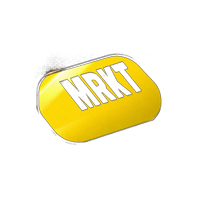
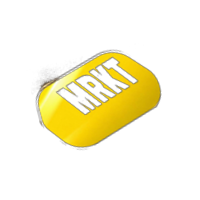
fix: list bottom disappearing on iOS until scroll
The market pattern on each card was a rotated child layer 2-3x the card
size under a mask; 15 of them exhausted WebKit's compositing budget and the
lower part of the list stopped painting until scrolled. The -14° tilt is
now baked into the tile images and the pattern is a single flat,
card-sized layer.

Changed region(s): [[0.18, 0.24, 0.72, 0.75], [0.57, 0.3, 0.81, 0.66]]

diff --git a/frontend/src/pages/search/components/ListingCard.jsx b/frontend/src/pages/search/components/ListingCard.jsx
@@ -66,24 +66,23 @@ function button3d({ top, bottom, edge }) {
 function MarketPattern({ pattern }) {
   if (!pattern) return null
   const { src, size, opacity, brick } = pattern
+  // Один плоский слой размером с карточку. Раньше узор был отдельным повёрнутым
+  // слоем в 2–3 раза больше карточки — на iPhone (WebKit) 15 таких слоёв
+  // переполняли память отрисовки, и низ списка пропадал до прокрутки.
+  // Наклон фигурок теперь «впечён» в сами картинки (portals/mrkt-pattern.png).
   return (
     <div aria-hidden style={{
       position: 'absolute', inset: 0,
       pointerEvents: 'none',
+      opacity,
+      backgroundImage: brick ? `url(${src}), url(${src})` : `url(${src})`,
+      backgroundSize: `${size}px ${size}px`,
+      backgroundPosition: brick ? `0 0, ${size / 2}px ${size / 2}px` : '0 0',
+      backgroundRepeat: 'repeat',
       // узор виден в середине и растворяется к имени и к цене
       WebkitMaskImage: 'linear-gradient(90deg, transparent 18%, #000 42%, #000 58%, transparent 80%)',
       maskImage: 'linear-gradient(90deg, transparent 18%, #000 42%, #000 58%, transparent 80%)',
-    }}>
-      <div style={{
-        position: 'absolute', inset: '-60% -20%',
-        transform: 'rotate(-14deg)',
-        opacity,
-        backgroundImage: brick ? `url(${src}), url(${src})` : `url(${src})`,
-        backgroundSize: `${size}px ${size}px`,
-        backgroundPosition: brick ? `0 0, ${size / 2}px ${size / 2}px` : '0 0',
-        backgroundRepeat: 'repeat',
-      }} />
-    </div>
+    }} />
   )
 }
 
